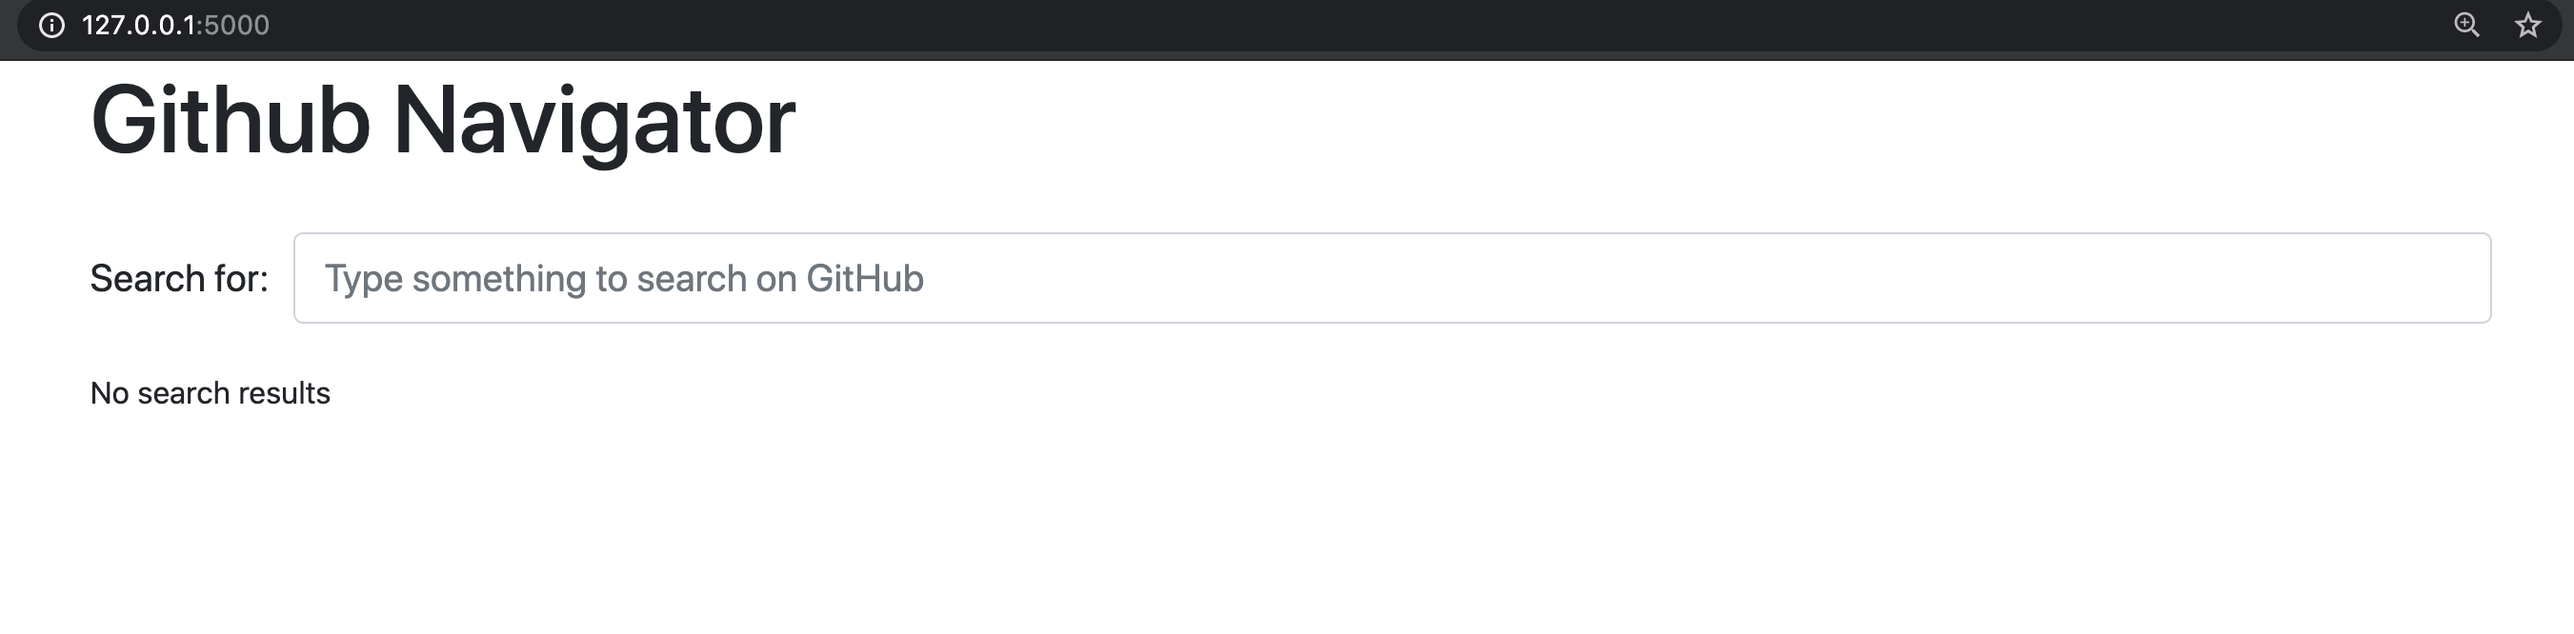
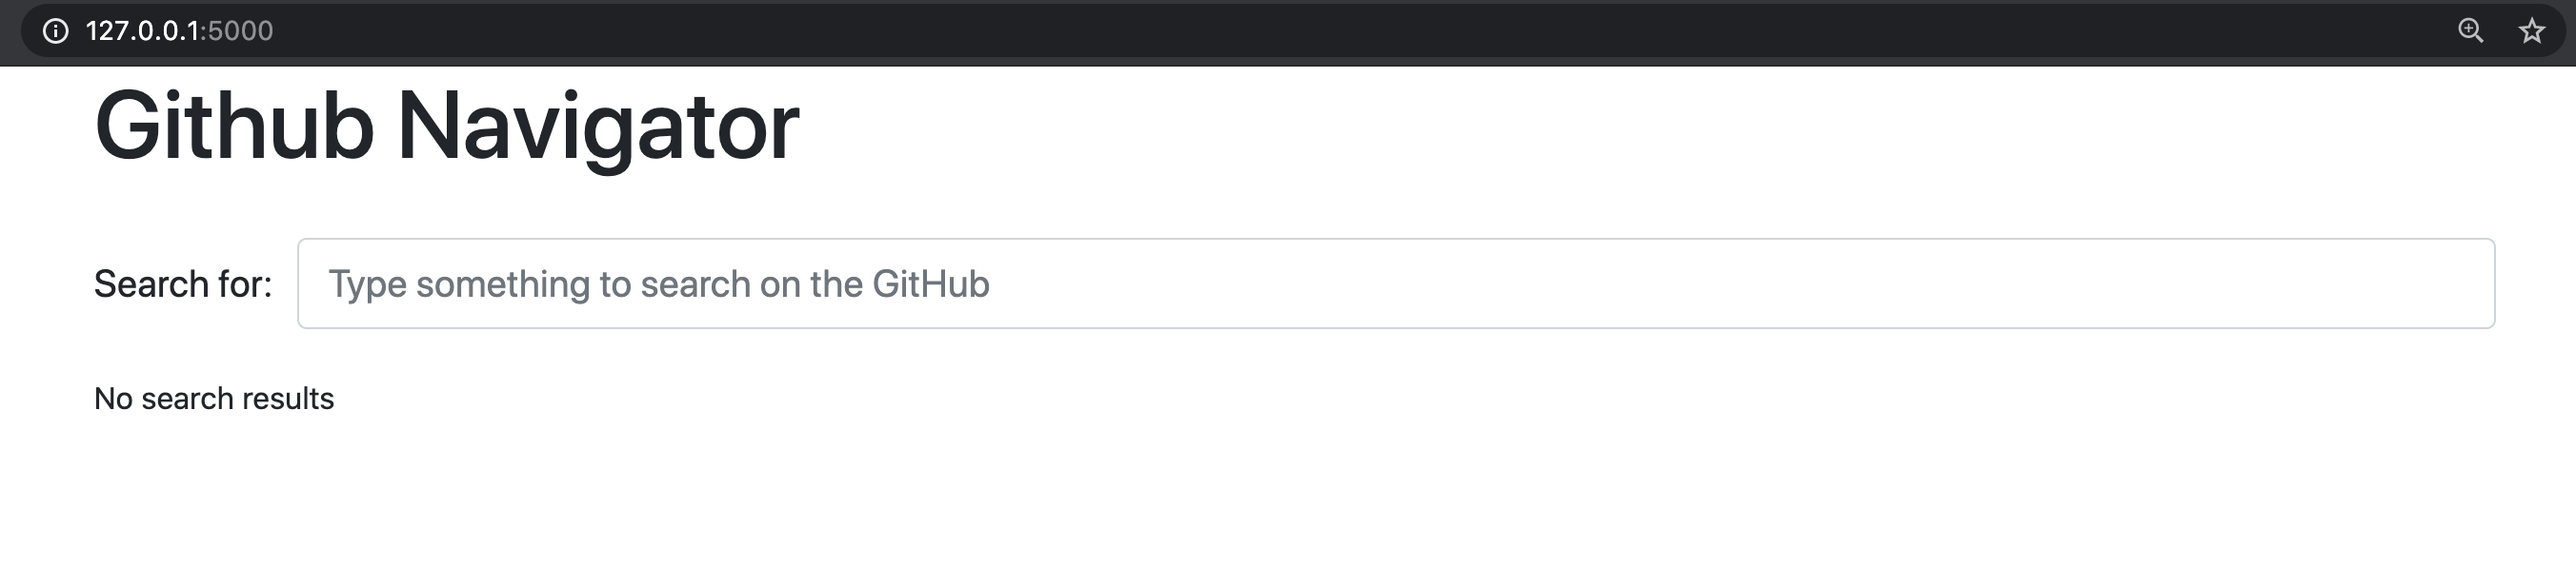
Make minor fixes

diff --git a/examples/miniapps/ghnav-flask/githubnavigator/templates/index.html b/examples/miniapps/ghnav-flask/githubnavigator/templates/index.html
@@ -11,7 +11,7 @@
           <label for="search_term" class="col-form-label">Search for:</label>
           <div class="col-10">
               <input class="form-control" type="text" id="search_term"
-                     placeholder="Type something to search on GitHub"
+                     placeholder="Type something to search on the GitHub"
                      name="search_term"
                      value="{{ search_term if search_term }}">
           </div>

diff --git a/docs/tutorials/flask.rst b/docs/tutorials/flask.rst
@@ -6,7 +6,7 @@ This tutorials shows how to build ``Flask`` application following dependency inj
 What are we going to build?
 ---------------------------
 
-We will build a web application that helps to search for repositories on Github. Let's call it
+We will build a web application that helps to search for repositories on the Github. Let's call it
 Github Navigator.
 
 How does Github Navigator work?
@@ -128,7 +128,7 @@ Put next to the ``containers.py``:
         index_view = flask.View(views.index)
 
 Finally we need to create the Flask application factory. It is traditionally called
-``create_app()``. It will create the container. After that it will use the container to create
+``create_app()``. It will create the container. Then it will use the container to create
 the Flask application. Last step is to configure the routing - we will assign ``index_view`` from the
 container to handle user requests to the root ``/`` if our web application.
 
@@ -156,7 +156,7 @@ Put next to the ``application.py``:
 
    Container is the first object in the application.
 
-   The container is used to create all other components.
+   The container is used to create all other objects.
 
 Ok. Now we're ready to say "Hello, World!".
 
@@ -330,7 +330,7 @@ Put next to the ``index.html``:
                    <label for="search_term" class="col-form-label">Search for:</label>
                    <div class="col-10">
                        <input class="form-control" type="text" id="search_term"
-                              placeholder="Type something to search on GitHub"
+                              placeholder="Type something to search on the GitHub"
                               name="search_term"
                               value="{{ search_term if search_term }}">
                    </div>
